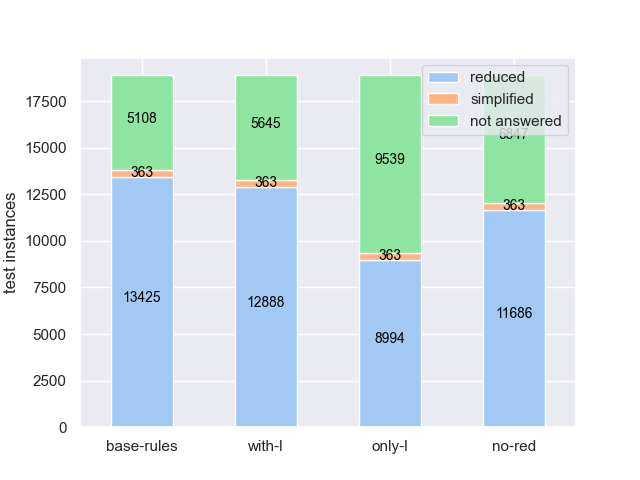
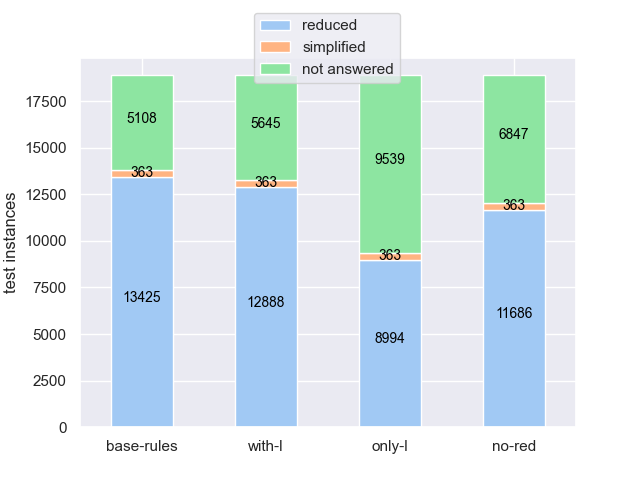
moves legend in the 3 graphs, such that they are not in the way (#19)

Changed region(s): [[0.6562, 0.125, 0.875, 0.2812], [0.375, 0.0312, 0.625, 0.1875]]

diff --git a/graph_utility/answer_simplification_bars.py b/graph_utility/answer_simplification_bars.py
@@ -46,7 +46,7 @@ def plot(data_list, test_names):
     # For some reason seaborn really wants to rotate the labels, so i un-rotate them
     for item in plot.get_xticklabels():
         item.set_rotation(0)
-    plt.legend(loc='upper right')
+    plt.legend(bbox_to_anchor=(0.35, 1.12), loc='upper left', borderaxespad=0)
     plt.ylabel("test instances")
     # For each patch (basically each rectangle within the bar), add a label.
     for index, bar in enumerate(plot.patches):
@@ -56,7 +56,7 @@ def plot(data_list, test_names):
             bar.get_x() + bar.get_width() / 2,
             # Vertically, add the height of the bar to the start of the bar,
             # along with the offset.
-            bar.get_y() if bar.get_height() < 2500 else (bar.get_height() / 2) + bar.get_y() ,
+            bar.get_y() if bar.get_height() < 2500 else (bar.get_height() / 2) + bar.get_y(),
             # This is actual value we'll show.
             round(bar.get_height()),
             # Center the labels and style them a bit.

diff --git a/graph_utility/time_memory.py b/graph_utility/time_memory.py
@@ -61,6 +61,7 @@ def plot(data_list, test_names):
         title=f'model checking time and memory per model',
         ylabel='seconds or kB',
         xlabel='models', yscale="log")
+    plt.legend(bbox_to_anchor=(1.02, 0.55), loc='best', borderaxespad=0)
 
-    plt.savefig('../graphs/time-memory_per_model.png')
+    plt.savefig('../graphs/time-memory_per_model.png', bbox_inches='tight')
     plt.clf()

diff --git a/graph_utility/reduced_size.py b/graph_utility/reduced_size.py
@@ -53,5 +53,6 @@ def plot(data_list, test_names, unneeded_columns):
                                                       yscale="linear",
                                                       title=f'Reduced size in comparison to pre size, sorted non-decreasingly')
 
+    plt.legend(loc='best')
     plt.savefig('../graphs/reduced_size_compared.png')
     plt.clf()
